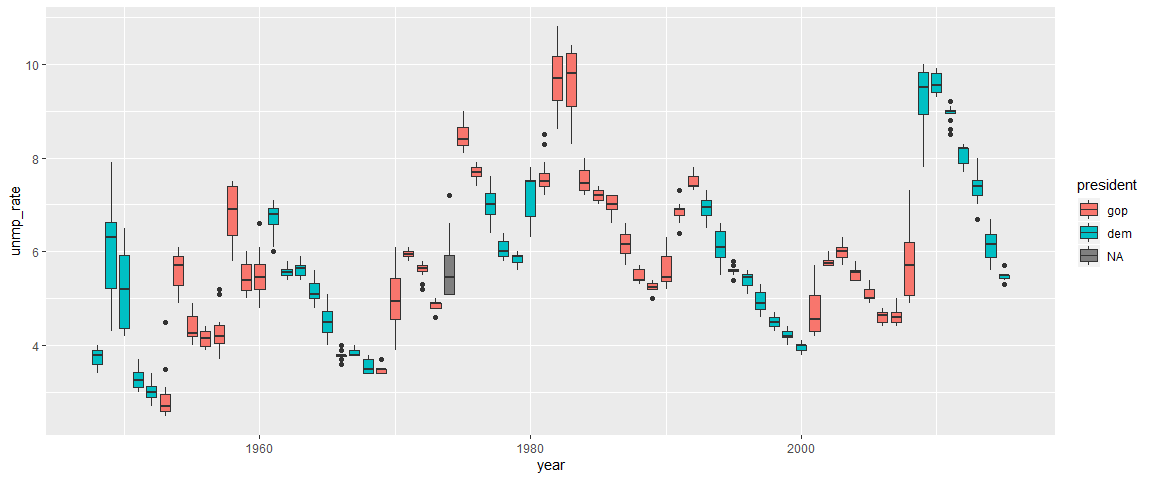
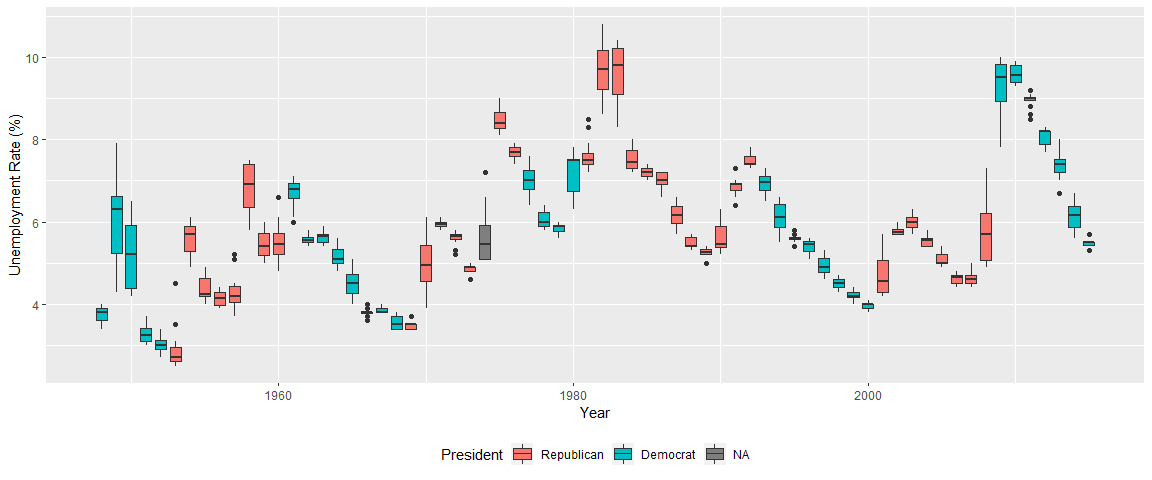
made my tables more reader friendly
added some nice labels for my graphs

added inline text for the median number of sports balls in 2017

maybe some other cosmetic changes

diff --git a/p8105_hw2_jsg2145.md b/p8105_hw2_jsg2145.md
@@ -41,25 +41,30 @@ precip1718 = full_join(precip_17, precip_18) %>%
 
     ## Joining, by = c("month", "total", "year")
 
-#### Problem 1 summary
+#### Problem 1 summary I
 
 The Mr. Trash Wheel data is the data collected from a skimmer
 
-that collects debris in a bay in Maryland.The volume and weight of
+that collects debris in a bay in Maryland. For instance, the median
+number
+
+of sports ball collected in 2017 was 8. The volume and weight of
 
 the debris collected appear to be rising over the period of the data,
 
 from 2014 to 2018. Interestingly, this trend does not appear in each
 
-category of waste. Most of the variables peaked in 2016 or simply
+category of waste. Most of the debris variables peaked in 2016 or simply
 
-tapered off after the first year. One variable that shows this
+tapered off after the first year.
 
-increasing trend over time is “Homes Powered”, which is a measurement
+One variable that shows this increasing trend over time is “Homes
+Powered”,
 
-of the power generated by a waste-to-energy plant. However, the
+which is a measurementof the power generated by a waste-to-energy plant.
+However,
 
-number of dumpsters also increased over time. One explanation for
+the number of dumpsters also increased over time. One explanation for
 
 this is that the tare weight was off, creating a situation where
 
@@ -67,21 +72,36 @@ each time a dumpster was weighed, it overestimated the total
 
 weight collected. Another one is that the amount of stuff being
 
-collected was underestimated. I’m not really sure what’s going on
+collected was underestimated for some reason. I’m not really sure
 
-here. It might have something to do with the way the volume is measured.
+what’s going on here.
+
+It might have something to do with the way the volume is measured.
 
 There is a cluster of volume measurements at 15 cubic yards and
 
 about 18 cubic yards. The density of the weights (calculated from
 
-the weight and volume of debris) appears not to change over time. See
-below.
+the weight and volume of debris) appears not to change over time. One
+might
+
+expect the density to rise over time, considering the amount of stuff
+being collected
+
+doesn’t appear to follow the same rising trend. This would indicate that
+despite
+
+not collecting more stuff, more dense stuff was collected. However, this
+is not the case.
+
+See below.
 
 ``` r
 mr_trash %>% 
   ggplot(aes(x = volume_cubic_yards)) +
-  geom_histogram()
+  geom_histogram() +
+  labs(x = "Volume (Cubic Yards)",
+       y = "Count")
 ```
 
     ## `stat_bin()` using `bins = 30`. Pick better value with `binwidth`.
@@ -91,7 +111,9 @@ mr_trash %>%
 ``` r
 mr_trash %>% 
   ggplot(aes(x = year, y = weight_tons / volume_cubic_yards, group = year)) +
-  geom_boxplot()
+  geom_boxplot() +
+  labs(x = "Year",
+       y = "Density (Weight (tons)/Volume (cubic yards))")
 ```
 
 ![](p8105_hw2_jsg2145_files/figure-gfm/unnamed-chunk-4-1.png)<!-- -->
@@ -99,7 +121,9 @@ mr_trash %>%
 ``` r
 mr_trash %>% 
   ggplot(aes(x = year, y = weight_tons)) +
-  geom_col()
+  geom_col() +
+  labs(x = "Year",
+       y = "Weight (tons)")
 ```
 
 ![](p8105_hw2_jsg2145_files/figure-gfm/unnamed-chunk-5-1.png)<!-- -->
@@ -107,12 +131,14 @@ mr_trash %>%
 ``` r
 mr_trash %>% 
   ggplot(aes(x = year, y = volume_cubic_yards)) +
-  geom_col()
+  geom_col() +
+  labs(x = "Year",
+       y = "Volume (cubic yards")
 ```
 
 ![](p8105_hw2_jsg2145_files/figure-gfm/unnamed-chunk-6-1.png)<!-- -->
 
-#### Problem 1 summary
+#### Problem 1 summary II
 
 The precipitation data show the rain that fell in each month from
 January
@@ -129,7 +155,11 @@ precip1718 %>%
   mutate(
     month = factor(month, levels = month.name)) %>% 
   ggplot(aes(x = month, y = total)) +
-  geom_col()
+  geom_col() +
+  labs(
+    x = "Month",
+    y = "Total Precipitation (inches)"
+  )
 ```
 
 ![](p8105_hw2_jsg2145_files/figure-gfm/unnamed-chunk-7-1.png)<!-- -->
@@ -140,7 +170,11 @@ precip1718 %>%
   mutate(
     month = factor(month, levels = month.name)) %>% 
   ggplot(aes(x = month, y = total)) +
-  geom_col()
+  geom_col() +
+  labs(
+    x = "Month",
+    y = "Total Precipitation (inches)"
+  )
 ```
 
 ![](p8105_hw2_jsg2145_files/figure-gfm/unnamed-chunk-7-2.png)<!-- -->
@@ -237,9 +271,14 @@ join2 %>%
   mutate(
     president = 
       factor(president, 
-             levels = c("gop", "dem"))) %>% 
+             levels = c("gop", "dem"),
+             labels = c("Republican", "Democrat"))) %>%
   ggplot(aes(x = year, y = unmp_rate, fill = president, group = year)) +
-  geom_boxplot()
+  geom_boxplot() +
+  labs(x = "Year",
+       y = "Unemployment Rate (%)") +
+  theme(legend.position = "bottom") +
+  scale_fill_discrete(name = "President")
 ```
 
 ![](p8105_hw2_jsg2145_files/figure-gfm/unnamed-chunk-12-1.png)<!-- -->
@@ -249,7 +288,9 @@ join2 %>%
   filter(
     !is.na(snp_close)) %>% 
   ggplot(aes(x = year, y = snp_close)) +
-  geom_smooth(se = FALSE)
+  geom_smooth(se = FALSE) +
+  labs(x = "Year",
+       y = "S&P 500 Closing Price")
 ```
 
     ## `geom_smooth()` using method = 'loess' and formula 'y ~ x'
@@ -318,42 +359,24 @@ bbnm %>%
     rank = desc(count) %>% 
       min_rank()) %>% 
   ungroup() %>% 
-  group_by(year, count) %>% 
-  rename(Year = year,
-         Ethnicity = ethnicity,
-         Count = count,
+  rename(Ethnicity = ethnicity,
          Rank = rank) %>% 
   filter(fname == "OLIVIA") %>% 
-  select(Year, Ethnicity, Count, Rank) %>% 
+  select(year, Ethnicity, Rank) %>% 
+  arrange(year) %>% 
+  pivot_wider(
+    names_from = year,
+    values_from = Rank
+  ) %>% 
   knitr::kable(caption = "Popularity of the Name Olivia")
 ```
 
-| Year | Ethnicity                  | Count | Rank |
-| ---: | :------------------------- | ----: | ---: |
-| 2016 | ASIAN AND PACIFIC ISLANDER |   172 |   15 |
-| 2016 | BLACK NON HISPANIC         |    49 |  125 |
-| 2016 | HISPANIC                   |   108 |   37 |
-| 2016 | WHITE NON HISPANIC         |   230 |    3 |
-| 2015 | ASIAN AND PACIFIC ISLANDER |   188 |   10 |
-| 2015 | BLACK NON HISPANIC         |    82 |   62 |
-| 2015 | HISPANIC                   |    94 |   46 |
-| 2015 | WHITE NON HISPANIC         |   225 |    4 |
-| 2014 | ASIAN AND PACIFIC ISLANDER |   141 |   21 |
-| 2014 | BLACK NON HISPANIC         |    52 |  115 |
-| 2014 | HISPANIC                   |    96 |   42 |
-| 2014 | WHITE NON HISPANIC         |   248 |    4 |
-| 2013 | ASIAN AND PACIFIC ISLANDER |   109 |   36 |
-| 2013 | BLACK NON HISPANIC         |    64 |   81 |
-| 2013 | HISPANIC                   |    87 |   55 |
-| 2013 | WHITE NON HISPANIC         |   233 |    4 |
-| 2012 | ASIAN AND PACIFIC ISLANDER |   132 |   27 |
-| 2012 | BLACK NON HISPANIC         |    58 |   95 |
-| 2012 | HISPANIC                   |    77 |   63 |
-| 2012 | WHITE NON HISPANIC         |   198 |    7 |
-| 2011 | ASIAN AND PACIFIC ISLANDER |    89 |   51 |
-| 2011 | BLACK NON HISPANIC         |    52 |  112 |
-| 2011 | HISPANIC                   |    86 |   53 |
-| 2011 | WHITE NON HISPANIC         |   213 |    5 |
+| Ethnicity                  | 2011 | 2012 | 2013 | 2014 | 2015 | 2016 |
+| :------------------------- | ---: | ---: | ---: | ---: | ---: | ---: |
+| ASIAN AND PACIFIC ISLANDER |   51 |   27 |   36 |   21 |   10 |   15 |
+| BLACK NON HISPANIC         |  112 |   95 |   81 |  115 |   62 |  125 |
+| HISPANIC                   |   53 |   63 |   55 |   42 |   46 |   37 |
+| WHITE NON HISPANIC         |    5 |    7 |    4 |    4 |    4 |    3 |
 
 Popularity of the Name Olivia
 
@@ -361,42 +384,23 @@ Popularity of the Name Olivia
 bbnm %>% 
   group_by(year, ethnicity) %>% 
   filter(gender == "MALE", rank == 1) %>% 
-  rename(Year = year,
-         Ethnicity = ethnicity,
-         Count = count,
-         "First Name" = fname) %>% 
-  select(Year, Ethnicity, "First Name", Count) %>% 
+  rename(Ethnicity = ethnicity) %>% 
+  select(year, Ethnicity, fname) %>% 
   ungroup() %>% 
-  arrange(Year, Ethnicity) %>% 
+  arrange(year) %>% 
+  pivot_wider(
+    names_from = year,
+    values_from = fname
+  ) %>% 
   knitr::kable(caption = "Most Popular Names for Boys")
 ```
 
-| Year | Ethnicity                  | First Name | Count |
-| ---: | :------------------------- | :--------- | ----: |
-| 2011 | ASIAN AND PACIFIC ISLANDER | ETHAN      |   177 |
-| 2011 | BLACK NON HISPANIC         | JAYDEN     |   184 |
-| 2011 | HISPANIC                   | JAYDEN     |   426 |
-| 2011 | WHITE NON HISPANIC         | MICHAEL    |   292 |
-| 2012 | ASIAN AND PACIFIC ISLANDER | RYAN       |   197 |
-| 2012 | BLACK NON HISPANIC         | JAYDEN     |   171 |
-| 2012 | HISPANIC                   | JAYDEN     |   364 |
-| 2012 | WHITE NON HISPANIC         | JOSEPH     |   300 |
-| 2013 | ASIAN AND PACIFIC ISLANDER | JAYDEN     |   220 |
-| 2013 | BLACK NON HISPANIC         | ETHAN      |   146 |
-| 2013 | HISPANIC                   | JAYDEN     |   352 |
-| 2013 | WHITE NON HISPANIC         | DAVID      |   304 |
-| 2014 | ASIAN AND PACIFIC ISLANDER | JAYDEN     |   187 |
-| 2014 | BLACK NON HISPANIC         | ETHAN      |   138 |
-| 2014 | HISPANIC                   | LIAM       |   312 |
-| 2014 | WHITE NON HISPANIC         | JOSEPH     |   300 |
-| 2015 | ASIAN AND PACIFIC ISLANDER | JAYDEN     |   190 |
-| 2015 | BLACK NON HISPANIC         | NOAH       |   163 |
-| 2015 | HISPANIC                   | LIAM       |   356 |
-| 2015 | WHITE NON HISPANIC         | DAVID      |   299 |
-| 2016 | ASIAN AND PACIFIC ISLANDER | ETHAN      |   193 |
-| 2016 | BLACK NON HISPANIC         | NOAH       |   148 |
-| 2016 | HISPANIC                   | LIAM       |   387 |
-| 2016 | WHITE NON HISPANIC         | JOSEPH     |   261 |
+| Ethnicity                  | 2011    | 2012   | 2013   | 2014   | 2015   | 2016   |
+| :------------------------- | :------ | :----- | :----- | :----- | :----- | :----- |
+| ASIAN AND PACIFIC ISLANDER | ETHAN   | RYAN   | JAYDEN | JAYDEN | JAYDEN | ETHAN  |
+| BLACK NON HISPANIC         | JAYDEN  | JAYDEN | ETHAN  | ETHAN  | NOAH   | NOAH   |
+| HISPANIC                   | JAYDEN  | JAYDEN | JAYDEN | LIAM   | LIAM   | LIAM   |
+| WHITE NON HISPANIC         | MICHAEL | JOSEPH | DAVID  | JOSEPH | DAVID  | JOSEPH |
 
 Most Popular Names for Boys
 
